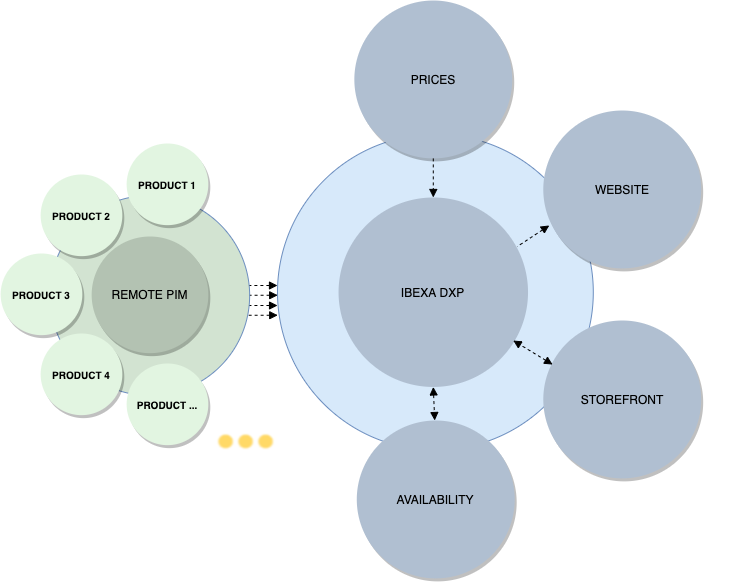
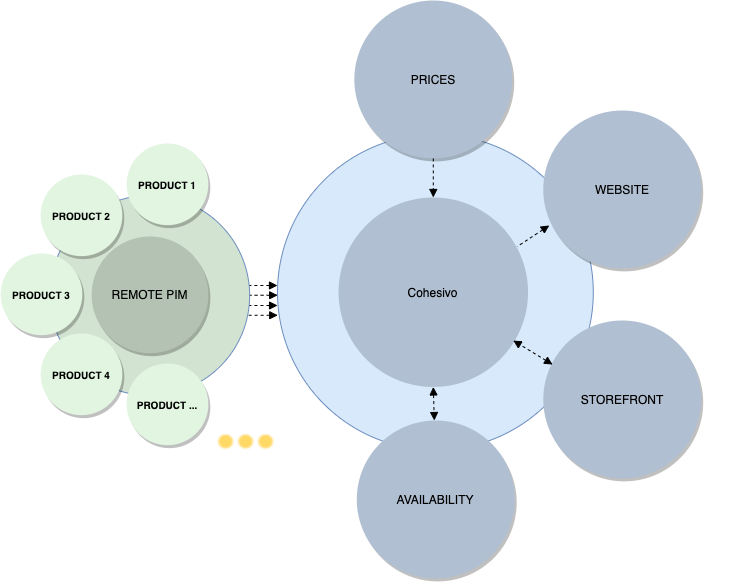
Implement reviewer comments

diff --git a/theme/partials/eol_warning.html b/theme/partials/eol_warning.html
@@ -1,5 +1,5 @@
 <div id="eol-warning-box" class="admonition caution">
     <div class="admonition-title">
-        This documentation is for a version that has reached its <a href="https://support.ibexa.co/Public/service-life">End Of Life</a>. Such versions are no longer supported and don't receive security updates. Consider <a href="https://doc.ibexa.co/en/latest/update_and_migration/update_ibexa_dxp/">updating to a newer version</a>.
+        This documentation is for a version that has reached its <a href="https://support.ibexa.co/Public/service-life">End Of Life</a>. Such versions are no longer supported and don't receive security updates. Consider <a href="https://doc.ibexa.co/en/latest/update_and_migration/update_system/">updating to a newer version</a>.
     </div>
 </div>

diff --git a/docs/update_and_migration/from_4.6/update_to_5.0.md b/docs/update_and_migration/from_4.6/update_to_5.0.md
@@ -23,17 +23,17 @@ When you have the last version of 4.6, you can update to v5.0.0.
 First, match v5.0's [requirements](requirements.md).
 It supports only PHP 8.3 and above.
 
-### Update custom code for PHP 8.3+ and DXP 4.6
+### Update custom code for PHP 8.3+ and Ibexa DXP 4.6
 
 It's important to stop using deprecated PHP classes as they're removed in 5.0.
 
 The [`ibexa/compatibility-layer`](to_4.0.md#add-compatibility-layer-package) isn't supported in 5.0.
 If you use it, remove it (`composer remove ibexa/compatibility-layer`) and make the necessary changes.
-See [[[= product_name =]] v4.0 deprecations and backwards compatibility breaks](/release_notes/ibexa_dxp_v4.0_deprecations.md) for the list of changes.
+See [Ibexa DXP v4.0 deprecations and backwards compatibility breaks](/release_notes/ibexa_dxp_v4.0_deprecations.md) for the list of changes.
 
 [Rector](https://getrector.com/) and the [[= product_name_base =]] rule sets help to upgrade your code.
 
-Install [`ibexa/rector`](https://github.com/ibexa/rector) which contains rules to ensure custom code is up to date with DXP 4.6:
+Install [`ibexa/rector`](https://github.com/ibexa/rector) which contains rules to ensure custom code is up to date with Ibexa DXP 4.6:
 
 ```bash
 composer require --dev ibexa/rector
@@ -106,11 +106,11 @@ You can do it, for example, with the following command:
 rm -r config/graphql
 ```
 
-### Update [[= product_name =]] application
+### Update Ibexa DXP application
 
 #### Update package requirements
 
-[[= product_name =]] 5.0 is based on Symfony 7.3 and both must be updated.
+Ibexa DXP 5.0 is based on Symfony 7.3 and both must be updated.
 Your development packages must be updated as well.
 The example below assumes that [`symfony/debug-pack`](https://symfony.com/packages/debug-pack) and `ibexa/rector` are installed.
 Adjust the list based on your project requirements.
@@ -219,7 +219,7 @@ If you were using the separate `ibexa/elasticsearch8` package in v4.6, you shoul
 composer remove --no-update ibexa/elasticsearch8
 ```
 
-The `ibexa/elasticsearch` package is automatically installed as part of your [[= product_name =]] 5.0 update.
+The `ibexa/elasticsearch` package is automatically installed as part of your Ibexa DXP 5.0 update.
 Your existing Elasticsearch 8 server and configuration continue to work with the `ibexa/elasticsearch` package.
 
 #### Remove PHP 8.2 error handler
@@ -252,7 +252,7 @@ composer recipes:install symfony/webpack-encore-bundle --reset --force --yes
 
 Compare with your previous version, merge them together and test your customizations if needed.
 
-#### Apply [[= product_name =]] recipe
+#### Apply Ibexa DXP recipe
 
 === "[[= product_name_headless =]]"
 
@@ -324,7 +324,7 @@ The main schema has changed and the provided SQL file `ibexa-4.6.latest-to-5.0.0
 
 ??? note "Ibexa Open Source"
 
-    If you don't have access to [[= product_name =]]'s `ibexa/installer` package, apply the following database update:
+    If you don't have access to Ibexa DXP's `ibexa/installer` package, apply the following database update:
 
     === "MySQL"
 
@@ -442,9 +442,9 @@ You can track the renaming in the `ibexa-4.6.latest-to-5.0.0.sql` file or below.
     ALTER TABLE ibexa_dfs_file RENAME INDEX ezdfsfile_mtime TO ibexa_dfs_file_mtime;
     ```
 
-### Update custom code for [[= product_name =]] 5.0
+### Update custom code for Ibexa DXP 5.0
 
-See [[[= product_name =]] v5.0 deprecations and backwards compatibility breaks](/release_notes/ibexa_dxp_v5.0_deprecations.md) for the list of changes.
+See [Ibexa DXP v5.0 deprecations and backwards compatibility breaks](/release_notes/ibexa_dxp_v5.0_deprecations.md) for the list of changes.
 The following sections presents some of those changes and how to apply them.
 
 #### Update PHP framework standards
@@ -1058,7 +1058,7 @@ php bin/console ibexa:migrations:migrate --file=2025_07_08_09_27_set_container_t
 
 ### Generate GraphQL schema
 
-GraphQL usage is no longer required for the [[= product_name =]] back office.
+GraphQL usage is no longer required for the Ibexa DXP back office.
 If you are using GraphQL in your project, you can generate its schema by running:
 
 ```bash
@@ -1109,5 +1109,5 @@ composer ibexa:setup --platformsh
 
 #### Conclusion
 
-Your project is now running the latest major version of [[= product_name =]].
+Your project is now running the latest major version of Ibexa DXP.
 To reach the last patch version, see [Update from v5.0.x to v5.0.latest](update_from_5.0.md)

diff --git a/docs/administration/project_organization/architecture.md b/docs/administration/project_organization/architecture.md
@@ -7,7 +7,7 @@ description: Cohesivo architecture is structured in multiple layers connected by
 [[= product_name =]] architecture is based on the philosophy to **use APIs** that is maintained in the long term.
 This **makes upgrades easier and provides lossless couplings** between all parts of the architecture, at the same time improving the migration capabilities of the system.
 
-The structure of an [[= product_name =]] app is based on the Symfony framework but content management functions rely on the public PHP API.
+The structure of a [[= product_name =]] app is based on the Symfony framework but content management functions rely on the public PHP API.
 Other applications integrate with [[= product_name =]] via REST API, which also relies on the public PHP API.
 
 ![Architecture](architecture.png "Architecture")
@@ -16,11 +16,11 @@ The architecture of [[= product_name =]] is layered and uses clearly defined API
 
 | Layer                                               | Description                                                                                                                                                                                    |
 |-----------------------------------------------------|------------------------------------------------------------------------------------------------------------------------------------------------------------------------------------------------|
-| [Back office](back_office_configuration.md)         | Back office contains all the necessary parts to run the [[= product_name =]] back office interface.                                                                                            |
+| [Back office](back_office_configuration.md)         | Back office contains all the necessary parts to run the [[= product_name =]]'s back office interface.                                                                                            |
 | [HTTP Cache](http_cache.md)                         | Symfony HTTP cache is used to manage content "view" cache with an expiration model. In addition it is extended by using FOSHttpCache to add several advanced features.                         |
 | [Controllers](controllers.md)                       | Controllers created by you to read information from a Request object, create and return a Response objects.                                                                                    |
 | [Twig templates](twig_function_reference.md)        | Set of custom and built-in Twig templates. User interfaces are developed with the Twig template engine and query the public PHP API directly.                                                  |
-| [REST API v2](rest_api_usage.md)                    | The REST API v2 enables you to interact with an [[= product_name =]] installation through the HTTP protocol, following a REST interaction model.                                                 |
+| [REST API v2](rest_api_usage.md)                    | The REST API v2 enables you to interact with a [[= product_name =]] installation through the HTTP protocol, following a REST interaction model.                                                 |
 | [GraphQL](graphql.md)                               | GraphQL for [[= product_name =]] exposes the domain model using the repository, based on content type groups, content types and field definitions.                                             |
 | [Public PHP API](php_api.md)                        | Public PHP API exposes the repository which enables you to create, read, update, manage and delete all objects available in [[= product_name =]].                                              |
 | Business Logic                                      | The business logic is defined in the kernel. This business logic is exposed to applications via an API. It is used to organize development of the user interface layer.                        |

diff --git a/docs/update_and_migration/from_4.6/update_from_4.6.md b/docs/update_and_migration/from_4.6/update_from_4.6.md
@@ -205,7 +205,7 @@ If so, take appropriate action, for example by [revoking passwords](https://doc.
 
 The [BREACH](https://www.breachattack.com/) attack is a security vulnerability against HTTPS when using HTTP compression.
 
-If you're using Varnish, update the VCL configuration to stop compressing both the [[= product_name =]]'s REST API and JSON responses from your backend.
+If you're using Varnish, update the VCL configuration to stop compressing both the Ibexa DXP's REST API and JSON responses from your backend.
 Fastly users are not affected.
 
 === "Varnish on [[= product_name_cloud =]]"
@@ -362,7 +362,7 @@ No additional steps needed.
 
 ### Security
 
-This security advisory resolves XSS vulnerabilities in several parts of the back office of the DXP.
+This security advisory resolves XSS vulnerabilities in several parts of the back office of Ibexa DXP.
 Back office access and varying levels of editing and management permissions are required to exploit these vulnerabilities.
 
 For more information, see the [security advisory IBEXA-SA-2025-003](https://developers.ibexa.co/security-advisories/ibexa-sa-2025-003-xss-vulnerabilities-in-back-office).
@@ -393,9 +393,9 @@ Run the following scripts:
 
 This release adds support for [Solr 9](requirements.md#search).
 
-To update Solr within an existing [[= product_name =]] project, first refer to the [Solr 9 upgrade planning](https://solr.apache.org/guide/solr/latest/upgrade-notes/major-changes-in-solr-9.html) instructions.
+To update Solr within an existing Ibexa DXP project, first refer to the [Solr 9 upgrade planning](https://solr.apache.org/guide/solr/latest/upgrade-notes/major-changes-in-solr-9.html) instructions.
 
-Then, follow the [instructions for setting up Solr 9 with [[= product_name =]]](/search/search_engines/solr_search_engine/install_solr.md#configure-and-start-solr) and merge them with your custom configuration.
+Then, follow the [instructions for setting up Solr 9 with Ibexa DXP](https://doc.ibexa.co/en/4.6/search/search_engines/solr_search_engine/install_solr/#configure-and-start-solr) and merge them with your custom configuration.
 
 Changes include:
 
@@ -467,9 +467,9 @@ No additional steps needed.
 
 ### Elasticsearch 8 support
 
-As of v4.6.27, [[= product_name =]] adds optional support for Elasticsearch 8.19 or higher through the new `ibexa/elasticsearch8` package.
+As of v4.6.27, Ibexa DXP adds optional support for Elasticsearch 8.19 or higher through the new `ibexa/elasticsearch8` package.
 
-By default, [[= product_name =]] continues to support Elasticsearch 7.16.2+ with the `ibexa/elasticsearch` package.
+By default, Ibexa DXP continues to support Elasticsearch 7.16.2+ with the `ibexa/elasticsearch` package.
 To use Elasticsearch 8, follow these steps:
 
 #### Install Elasticsearch 8 package
@@ -713,7 +713,7 @@ To use these packages in versions not affected by security vulnerabilities, PHP 
 
 For projects meeting this requirement, you can update the packages with Composer.
 
-If you're using PHP 7.4 or 8.0, to do the [[= product_name =]] update, you have two options:
+If you're using PHP 7.4 or 8.0, to do the Ibexa DXP update, you have two options:
 
 #### Update PHP, the custom code, then the platform (recommended)
 

diff --git a/docs/update_and_migration/from_5.0/update_from_5.0.md b/docs/update_and_migration/from_5.0/update_from_5.0.md
@@ -187,7 +187,7 @@ If the platform comes from lower than v5.0.3 and is updated to higher than v5.0.
 
 ### Elasticsearch 8 support
 
-As of v5.0.5, [[= product_name =]] adds support for Elasticsearch 8.19 or higher.
+As of v5.0.5, Ibexa DXP adds support for Elasticsearch 8.19 or higher.
 You can continue using [unsupported Elasticsearch 7.16.2+](https://www.elastic.co/support/eol), but it's recommended to upgrade to Elasticsearch 8 for improved performance and security features.
 
 When choosing to keep using Elasticsearch 7.16.2, adjust your configuration as described in the [Update configuration](#update-configuration) section below to avoid using deprecated settings.
@@ -334,7 +334,7 @@ curl -fs https://get.symfony.com/cloud/configurator | bash
 
 ### Update Symfony from 7.3 to 7.4
 
-This version of [[= product_name =]] requires [Symfony 7.4](https://symfony.com/releases/7.4).
+This version of Ibexa DXP requires [Symfony 7.4](https://symfony.com/releases/7.4).
 Update Symfony constraints in `composer.json` before updating the packages.
 
 1. In `composer.json`, update `extra.symfony.require` to allow installing a higher Symfony version:
@@ -383,7 +383,7 @@ Update Symfony constraints in `composer.json` before updating the packages.
 
         !!! caution "Always clear the persistence cache with `cache:pool:clear` command"
 
-            Starting with Symfony 7.4, running `php bin/console cache:clear` doesn't clear the [[= product_name =]] persistence cache, even when using a filesystem-based cache pool.
+            Starting with Symfony 7.4, running `php bin/console cache:clear` doesn't clear the Ibexa DXP's persistence cache, even when using a filesystem-based cache pool.
 
             To clear the persistence cache, for example after adding a [custom Page Builder block](create_custom_page_block.md), you must always run:
 
@@ -477,7 +477,7 @@ Make sure it contains the highlighted addition:
 
 ## v5.0.9
 
-No additional steps needed for [[= product_name =]], but the [MCP Servers LTS Update requires additional update steps](#mcp-servers) if you're using it.
+No additional steps needed for Ibexa DXP, but the [MCP Servers LTS Update requires additional update steps](#mcp-servers) if you're using it.
 
 ## LTS Updates and additional packages
 

diff --git a/docs/update_and_migration/from_3.3/update_from_3.3.md b/docs/update_and_migration/from_3.3/update_from_3.3.md
@@ -241,7 +241,7 @@ Run the following scripts:
 
 ### Ibexa Open Source
 
-If you have no access to [[= product_name =]]'s `ibexa/installer` package, apply the following database upgrade script:
+If you have no access to Ibexa DXP's `ibexa/installer` package, apply the following database upgrade script:
 
 === "MySQL"
 
@@ -384,7 +384,7 @@ See [Update Flex server](#update-flex-server).
 
 #### VCL configuration for Fastly
 
-[[= product_name =]] now supports Fastly shielding. If you're using Fastly and want to use shielding, you need to update your VCL files.
+Ibexa DXP now supports Fastly shielding. If you're using Fastly and want to use shielding, you need to update your VCL files.
 
 !!! tip
 
@@ -454,7 +454,7 @@ If so, take appropriate action, for example by revoking passwords for all affect
 
 The [BREACH](https://www.breachattack.com/) attack is a security vulnerability against HTTPS when using HTTP compression.
 
-If you're using Varnish, update the VCL configuration to stop compressing both the [[= product_name =]]'s REST API and JSON responses from your backend.
+If you're using Varnish, update the VCL configuration to stop compressing both the Ibexa DXP's REST API and JSON responses from your backend.
 Fastly users are not affected.
 
 === "Varnish on [[= product_name_cloud =]]"
@@ -543,7 +543,7 @@ There are no additional update steps to execute.
 
 #### Security
 
-This security advisory resolves XSS vulnerabilities in several parts of the back office of the DXP.
+This security advisory resolves XSS vulnerabilities in several parts of the back office of Ibexa DXP.
 Back office access and varying levels of editing and management permissions are required to exploit these vulnerabilities.
 
 For more information, see the [security advisory IBEXA-SA-2025-003](https://developers.ibexa.co/security-advisories/ibexa-sa-2025-003-xss-vulnerabilities-in-back-office).

diff --git a/docs/recommendations/raptor_integration/connector_installation_configuration.md b/docs/recommendations/raptor_integration/connector_installation_configuration.md
@@ -34,7 +34,7 @@ To configure the [[= product_name_cdp_base =]] connector, use the `ibexa.system.
 - `tracking_type` - defines how user events are sent to the tracking API. Default value: `client`. Possible values:
     - `client` - tracking is executed in the browser using JavaScript snippets generated by the [Twig functions](recommendations_twig_functions.md) and included in the templates. This approach may be blocked by ad blockers.
     - `server` - tracking is handled on the backend, with events sent directly to the tracking API. It's not affected by ad blockers.
-    - `hybrid` - tracking is executed in the browser by a first-party JavaScript provided by the [[= product_name =]] instead of [[= product_name_cdp_base =]] and then forwarded by the [[= product_name =]] server to the [[= product_name_cdp_base =]] SaaS. For more information, see [Hybrid tracking](hybrid_tracking.md).
+    - `hybrid` - tracking is executed in the browser by a first-party JavaScript provided by [[= product_name =]] instead of [[= product_name_cdp_base =]] and then forwarded by the [[= product_name =]] server to the [[= product_name_cdp_base =]] SaaS. For more information, see [Hybrid tracking](hybrid_tracking.md).
 - `recommendations_api_key` - an API key used to authenticate requests to the Recommendations API. This key allows the connector to retrieve personalized recommendations from the recommendation engine. You can find this value as ["API key"](connector_installation_configuration.md#recommendations-api-key) in [[= product_name_cdp_base =]] Control Panel.
 - `recommendations_api_uri` (optional) - overrides the default [[= product_name_cdp_base =]] address, do not set it unless a custom endpoint is required.
 - `cookie_id_lifetime_days` (optional) - the lifetime in days of the server-side tracking identifier cookies. Default value: `365` days. Minimum value: `1` day.

diff --git a/docs/update_and_migration/migrate_to_ibexa_dxp/migrating_from_ez_publish_platform.md b/docs/update_and_migration/migrate_to_ibexa_dxp/migrating_from_ez_publish_platform.md
@@ -4,7 +4,7 @@ description: Migrate an older eZ Publish Platform installation to eZ Platform.
 
 # Migrating from eZ Publish Platform
 
-eZ Publish Platform (5.x) was a transitional version of the Ibexa CMS, bridging the gap between the earlier generation called eZ Publish (sometimes referred to as *legacy*), and eZ Platform, the predecessor to [[= product_name =]].
+eZ Publish Platform (5.x) was a transitional version of the Ibexa CMS, bridging the gap between the earlier generation called eZ Publish (sometimes referred to as *legacy*), eZ Platform and Ibexa DXP, the predecessors to [[= product_name =]].
 
 eZ Publish Platform introduced a new Symfony-based technology stack that could be run along the old (*legacy*) one. This bridging is still possible using something called Legacy Bridge, an optional package for eZ Platform. This fluid change allows eZ Publish users to migrate to eZ Platform gradually, using the bridging as an intermediary stepping stone.
 
@@ -37,7 +37,7 @@ You can then proceed with consecutive upgrades to further versions: v1.13 LTS an
 !!! caution "Unsupported legacy sorting methods"
 
     In older eZ Publish versions, sub-items of content items could be sorted by Class identifier (option value 6) or Class name (option value 7).
-    These sorting methods are no longer supported in [[= product_name =]].
+    These sorting methods are no longer supported in Ibexa DXP and [[= product_name =]].
     After you migrate, trying to render the Sub-items tab of content items that are configured to use the unsupported sorting methods results in an error.
 
     To mitigate the problem, before you migrate, update the affected content items to use supported sorting methods such as Name, Published, or Priority.

diff --git a/docs/ibexa_products/ibexa_headless.md b/docs/ibexa_products/ibexa_headless.md
@@ -104,9 +104,9 @@ There are many paths to access the content in many shapes:
 
 On top of this strong core, [[= product_name_headless =]] brings tools to increase user experience, from final front users to back office contributors.
 
-#### Complete DXP
+#### Complete platform
 
-[[= product_name_headless =]] is a complete Digital Experience Platform (DXP), which comes with the following components to enhance user's journey:
+[[= product_name_headless =]] is a complete platform, which comes with the following components to enhance user's journey:
 
 - [Recommendations](raptor_connector_guide.md) connector, which allows you to recommend content to end users according to their behavior,
   or, when authenticated, by matching with their segment/group.
@@ -150,7 +150,7 @@ Several features help end users collaborate on the content, such as:
 - [[= product_name_connect =]]'s role is to create application interconnections with low code and drag-and-drop, in a compelling visual interface.
   Complex data flows can be easily implemented with a huge library of connectors and actions for famous to specific applications.
   For more information, see [[[= product_name_connect =]] product guide]([[= connect_doc =]]/general/ibexa_connect/).
-- An OAuth 2 server offers the possibility to use the DXP as the authentication service for other applications.
+- An OAuth 2 server offers the possibility to use the platform as the authentication service for other applications.
 - An OAuth 2 client supports authentication with a third-party OAuth 2 server.
 - A DAM Connector, previously mentioned, helps to access any image repository when needing to illustrate a content.
 - [[= product_name_headless =]] supports Elasticsearch and Solr.

diff --git a/docs/release_notes/ibexa_dxp_v5.0.md b/docs/release_notes/ibexa_dxp_v5.0.md
@@ -1225,7 +1225,7 @@ The following Twig functions have been added in the v5.0 release:
 This release brings other minor upgrades intended to improve the developer's experience:
 
 - To improve code clarity, reliability, and error detection, type hint declarations that specify the expected data type have been added in multiple places throughout the product
-- In anticipation of [changes coming with PHP 8.4](https://php.watch/versions/8.4/implicitly-marking-parameter-type-nullable-deprecated), implicit nullable type declarations have been replaced with nullable type declarations throughout the product code. It is recommended that you update your custom code in the same way
+- In anticipation of [changes coming with PHP 8.4](https://php.watch/versions/8.4/implicitly-marking-parameter-type-nullable-deprecated), implicit nullable type declarations have been replaced with nullable type declarations throughout the product code. It's recommended that you update your custom code in the same way
 - Developer experience has improved with capabilities offered by PHP in version 8.3. For example, the `AsTwigComponent` attribute [facilitates autoconfiguration](https://doc.ibexa.co/en/5.0/templating/components/#php-code) of Twig components
 - With protection against breaking changes and easier refactoring in mind, [TypeScript](https://www.typescriptlang.org/) can now be used to extend the Back Office
 - [[[= product_name_base =]] Rector package](https://github.com/ibexa/rector) has been introduced that is based on [Rector](https://github.com/rectorphp) and comes with additional rules for working with Ibexa code. You can use it to get rid of PHP code deprecations

diff --git a/docs/infrastructure_and_maintenance/security/security_checklist.md b/docs/infrastructure_and_maintenance/security/security_checklist.md
@@ -117,7 +117,7 @@ Reduce your attack surface by exposing only what you must.
 
 - If possible, make the back office unavailable on the open internet.
 - [Symfony FOSJsRoutingBundle](https://github.com/FriendsOfSymfony/FOSJsRoutingBundle) is required in those releases where it's included, to expose routes to JavaScript. It exposes only the required routes, nothing more. It's only required in the back office SiteAccess though, so you can consider blocking it in other SiteAccesses. You should also go through your own custom routes, and decide for each if you need to expose them or not. See the documentation on [YAML route definitions for exposure](https://github.com/FriendsOfSymfony/FOSJsRoutingBundle/blob/master/Resources/doc/usage.rst#generating-uris).
-- By default, a [Powered-By header](update_db_to_2.5.md#powered-by-header) is set. It specifies what version of the [[= product_name =]] is running. For example, `x-powered-by: [[= product_name_exp =]] v4`. This doesn't expose anything that couldn't be detected through other means. But if you wish to obscure this, you can either omit the version number, or disable the header entirely by setting `enabled: false`.
+- By default, a [Powered-By header](update_db_to_2.5.md#powered-by-header) is set. It specifies what version of [[= product_name =]] is running. For example, `x-powered-by: [[= product_name_exp =]] v4`. This doesn't expose anything that couldn't be detected through other means. But if you wish to obscure this, you can either omit the version number, or disable the header entirely by setting `enabled: false`.
 
     ```yaml
     ibexa_system_info:

diff --git a/docs/update_and_migration/from_4.5/update_from_4.5.md b/docs/update_and_migration/from_4.5/update_from_4.5.md
@@ -305,7 +305,7 @@ php bin/console ibexa:migrations:migrate --file=2023_11_20_14_33_order_dashboard
 
 ### Ibexa Open Source
 
-If you don't have access to [[= product_name =]]'s `ibexa/installer` package and cannot apply the scripts from `vendor/ibexa/installer` directory, apply the following database update instead:
+If you don't have access to Ibexa DXP's `ibexa/installer` package and cannot apply the scripts from `vendor/ibexa/installer` directory, apply the following database update instead:
 
 === "MySQL"
 
@@ -342,7 +342,7 @@ ibexa:
 
 #### User profile
 
-[[= product_name =]] v4.6 introduced user profile for Backoffice users, allowing users to upload avatars, and provide personal information.
+Ibexa DXP v4.6 introduced user profile for Backoffice users, allowing users to upload avatars, and provide personal information.
 
 This feature is optional, and you can disable it by setting `enabled` flag to `false` in `ibexa.system.<scope>.user_profile` configuration:
 
@@ -370,7 +370,7 @@ ibexa:
                 field_groups: ['about', 'contact']
 ```
 
-You can use your own content type that represents the back office user, or use the default one provided by [[= product_name =]]:
+You can use your own content type that represents the back office user, or use the default one provided by Ibexa DXP:
 
 ```bash
 php bin/console ibexa:migrations:import vendor/ibexa/installer/src/bundle/Resources/install/migrations/2023_12_07_20_23_editor_content_type.yaml --name=2023_12_07_20_23_editor_content_type.yaml
